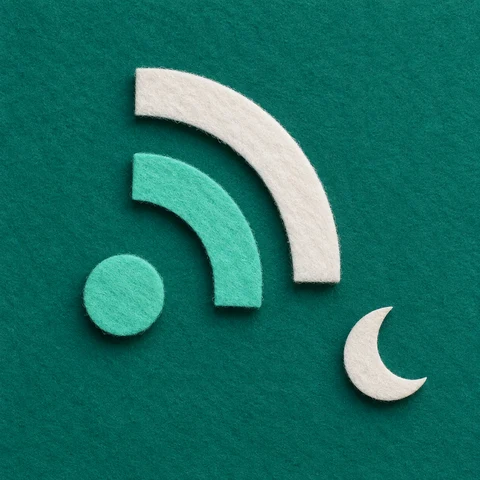
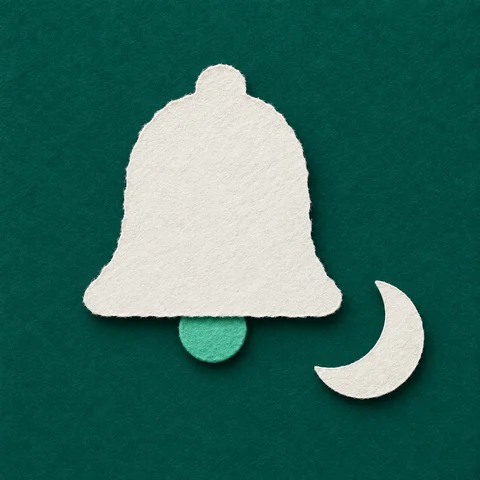
fix(site): clarify reminders artwork with a bell

diff --git a/docs/illustrations.md b/docs/illustrations.md
@@ -14,7 +14,7 @@ Use front-facing cut-paper collages with a few distinct layers, believable edge 
 
 ## Feature meaning
 
-Each graphic supports its adjacent heading. Lists use grouped sheets and tabs; routines use repeating completion shapes; reminders use two open signal arcs and a separate quiet-hours crescent; views rearrange the same task shapes; files use a document wallet and earlier sheets; access uses a key and connected shapes; customization uses a cream-backed square with light/dark material halves, three color dots and two text-size squares. Keep compositions clear at small sizes. The closed feature index remains plain text. An expanded feature panel may show one 64px decorative illustration in a 72px paper mount on desktop or 48px in a 56px mount on smaller screens; hide it at 360px and below. History and export uses a returning felt arrow around a paper clock, backed by record sheets. Use the fresh original and CSS sizing, without filters, motion or additional shadows. Keep all earlier originals in private design evidence. The hosting mark is 32px and the footer mark is 48px; hosting uses a quiet physical felt-paper backing around the opaque steps card, keeping copy off the texture. Do not enlarge feature artwork into hero stages or section backgrounds.
+Each graphic supports its adjacent heading. Lists use grouped sheets and tabs; routines use repeating completion shapes; reminders use a recognizable paper bell with a mint felt clapper and a separate quiet-hours crescent; avoid concentric rings and signal arcs; views rearrange the same task shapes; files use a document wallet and earlier sheets; access uses a key and connected shapes; customization uses a cream-backed square with light/dark material halves, three color dots and two text-size squares. Keep compositions clear at small sizes. The closed feature index remains plain text. An expanded feature panel may show one 64px decorative illustration in a 72px paper mount on desktop or 48px in a 56px mount on smaller screens; hide it at 360px and below. History and export uses a returning felt arrow around a paper clock, backed by record sheets. Use the fresh original and CSS sizing, without filters, motion or additional shadows. Keep all earlier originals in private design evidence. The hosting mark is 32px and the footer mark is 48px; hosting uses a quiet physical felt-paper backing around the opaque steps card, keeping copy off the texture. Do not enlarge feature artwork into hero stages or section backgrounds.
 
 Artwork is decorative, separate from real app captures. Do not add text, logos, fake interface elements or symbols that imply unsupported features. Supply empty alternative text and explicit square dimensions. Retain 480px and 720px originals for future uses; serve the 96px optimized brand variant in the footer. Maintain identical material and palette in both website themes.
 
